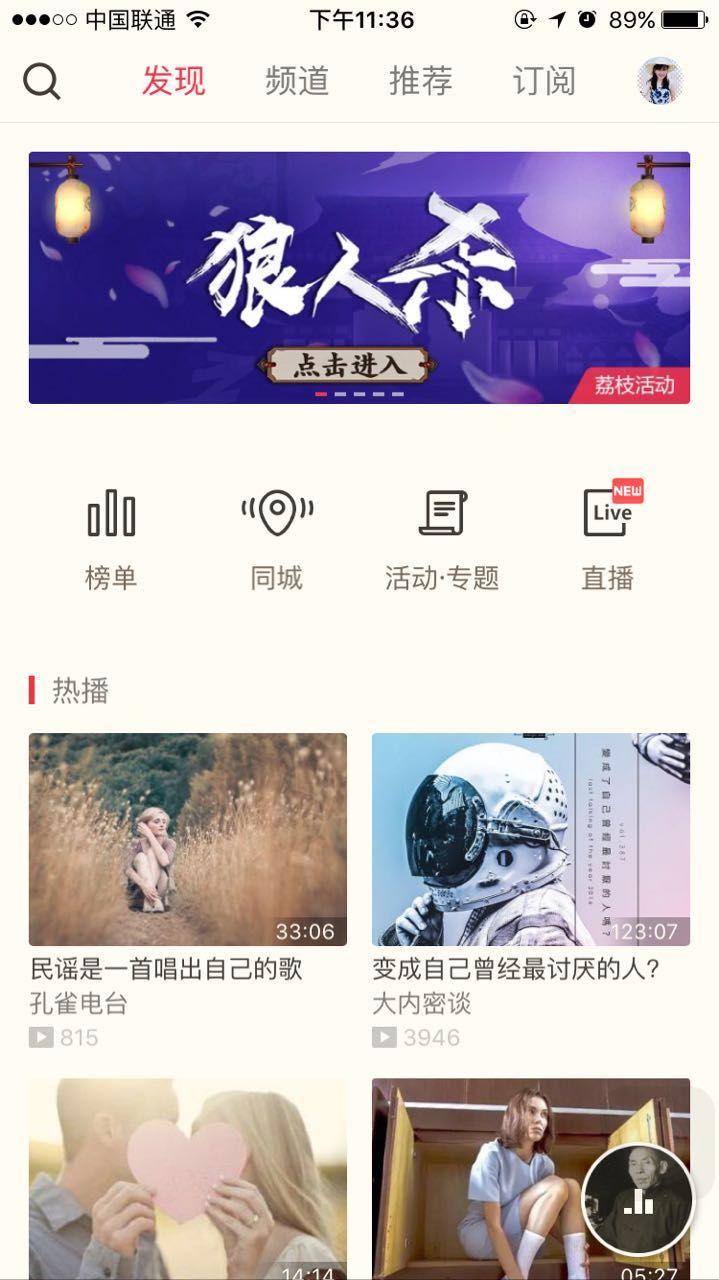
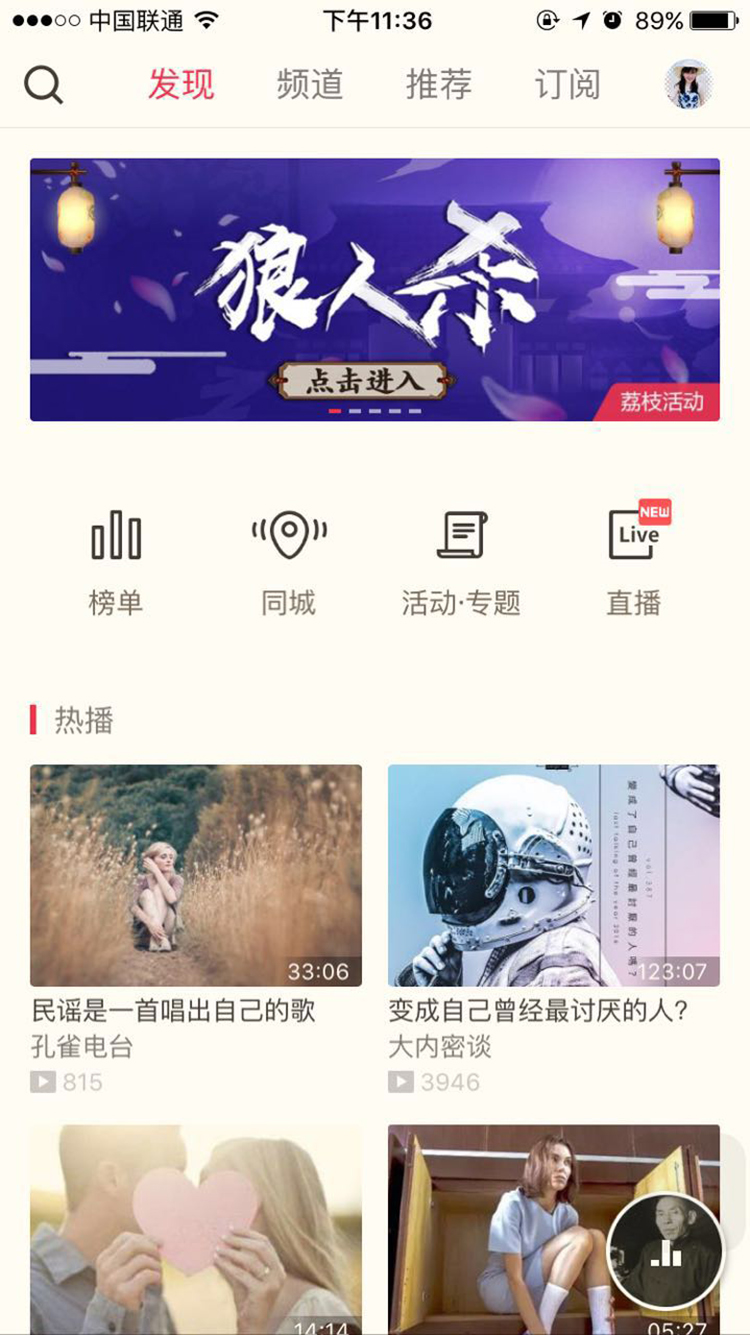
修正display:inline-block空隙的问题

diff --git a/src/App.vue b/src/App.vue
@@ -6,6 +6,11 @@
       <router-link to="/recommend">推荐</router-link>
       <router-link to="/book">订阅</router-link>
     </div>
+
+<!--<div class="index-tabs">
+    <div class="wrap"><a href="/labels" class="">分类</a><a href="/" class="active">排行榜</a><a href="https://appweb.lizhi.fm/live/list" class="">直播</a><a href="/search" class="">搜索</a></div>
+</div>-->
+
     <router-view></router-view>
   </div>
 </template>
@@ -17,12 +22,7 @@ export default {
 </script>
 
 <style>
-body{
-  background: #fffcf3;
-}
-    .active{
-      color:red;
-    }
     @import 'style/common.css';
+    @import 'style/app.css';
 </style>
  

diff --git a/src/router/router.js b/src/router/router.js
@@ -1,7 +1,7 @@
-import find from '@/components/find/find'
-import channel from '@/components/channel/channel'
-import recommend from '@/components/recommend/recommend'
-import book from '@/components/book/book'
+import find from '@/pages/find/find'
+import channel from '@/pages/channel/channel'
+import recommend from '@/pages/recommend/recommend'
+import book from '@/pages/book/book'
 
 const routes = [
   { path: '/', redirect: '/find'},

diff --git a/src/style/app.less b/src/style/app.less
@@ -1,0 +1,28 @@
+ @r:2*20rem;
+ 
+ body{
+      background: #fffcf3;
+    }
+
+
+
+#app{
+  padding: 30/@r 30/@r 0 30/@r;
+    .nav_tab{
+    padding: 0 86/@r;
+    font-size: 0;
+    a{
+      display: inline-block;
+      width: 25%;
+      height:55/@r;
+      line-height: 55/@r;
+      color:#797470;
+      font-size:.8rem;
+      text-align: center;
+    }
+    .view-active{
+      color:#e33958;
+    }
+  }
+}
+

diff --git a/src/style/app.css b/src/style/app.css
@@ -1,0 +1,22 @@
+body {
+  background: #fffcf3;
+}
+#app {
+  padding: 0.75rem 0.75rem 0 0.75rem;
+}
+#app .nav_tab {
+  padding: 0 2.15rem;
+  font-size: 0;
+}
+#app .nav_tab a {
+  display: inline-block;
+  width: 25%;
+  height: 1.375rem;
+  line-height: 1.375rem;
+  color: #797470;
+  font-size: .8rem;
+  text-align: center;
+}
+#app .nav_tab .view-active {
+  color: #e33958;
+}

diff --git a/src/pages/nav/nav.vue b/src/pages/nav/nav.vue
@@ -1,0 +1,19 @@
+<template>
+    <div class="nav_tab">
+      <router-link to="/find">发现</router-link>
+      <router-link to="/channel">频道</router-link>
+      <router-link to="/recommend">推荐</router-link>
+      <router-link to="/book">订阅</router-link>
+    </div>
+</template>
+
+<script>
+export default {
+  
+}
+</script>
+
+<style>
+
+</style>
+ 

diff --git a/src/style/common.less b/src/style/common.less
@@ -4,12 +4,18 @@ html,body{
   padding: 0;
 }
 
-ul,li,ol,a,p,h1,h2,h3{
+ul,li,ol,a,p,h1,h2,h3,dl,dt,dd{
   text-decoration: none;
   list-style: none;
   margin: 0;
   padding: 0;
 }
+
+table{
+    border-collapse: collapse;
+    border-spacing: 0;
+  }
+
 *{
   box-sizing: border-box;
 }

diff --git a/src/style/common.css b/src/style/common.css
@@ -11,11 +11,18 @@ a,
 p,
 h1,
 h2,
-h3 {
+h3,
+dl,
+dt,
+dd {
   text-decoration: none;
   list-style: none;
   margin: 0;
   padding: 0;
+}
+table {
+  border-collapse: collapse;
+  border-spacing: 0;
 }
 * {
   box-sizing: border-box;

diff --git a/src/main.js b/src/main.js
@@ -8,7 +8,7 @@ Vue.use(VueRouter)
 
 var router = new VueRouter({
 	routes:routes,
-  linkActiveClass: 'active'
+  linkActiveClass: 'view-active'
 })
 new Vue({
   el: '#app',
